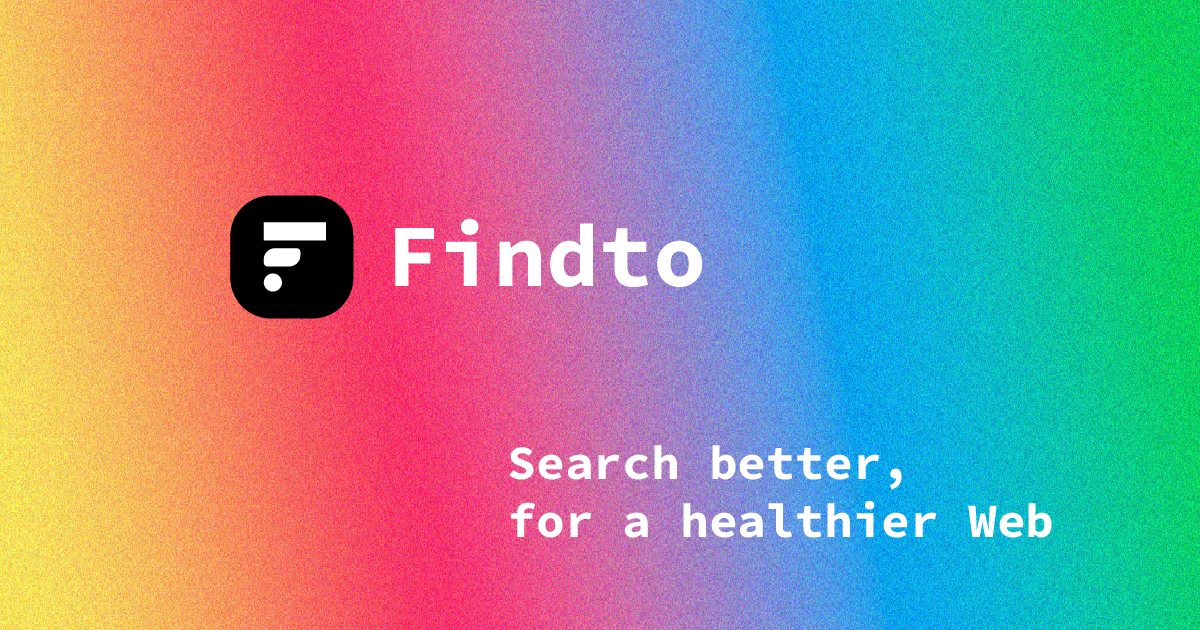
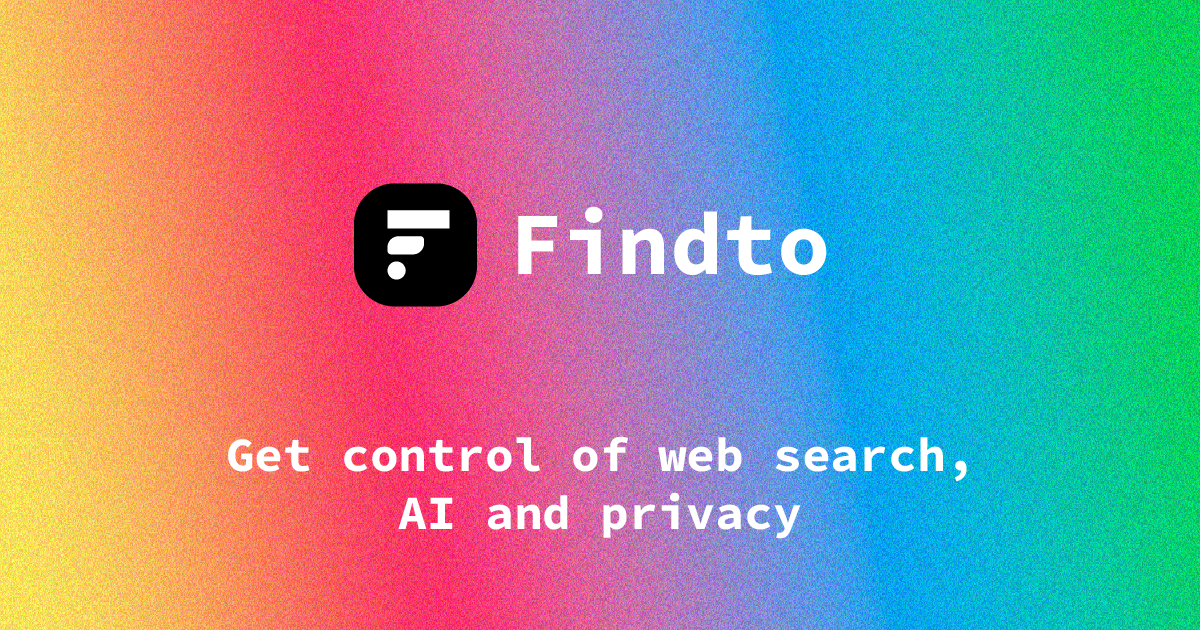
update share

Changed region(s): [[0.185, 0.6937, 0.8942, 0.8746], [0.185, 0.2714, 0.7092, 0.5127]]

diff --git a/README.md b/README.md
@@ -5,7 +5,7 @@
 </div>
 
 <h1 align="center">
-Findto
+<a href="https://findto.app/" target="_blank">Findto</a>
 </h1>
 
 <p align="center">
@@ -18,24 +18,25 @@ Findto
 
 <p align="center">
 Decentralized search assistant<br>
-<a href="https://findto.app/" target="_blank">findto.app</a>
 </p>
 
 ## 🌎 Decentralized search assistant
 
-Findto is a free and open source assistant for decentralized web search powered by diverse sources, AI and privacy control.
+Findto is a free and open source assistant for decentralized web search.
 
-Findto mission is to make searches truly free and more productive, putting people in control of algorithms and AIs — not the other way around. Findto proposes a enhanced web search experience: you control sources, view the privacy score, discover trending contents and chose better results.
+Findto's mission is to make searches truly free and more productive, putting people in control of algorithms and AIs — not the other way around.
 
-The centralized web, where our searches are monopolized, it's over. Findto encourage everyone to discover a more diverse, healthier, private and democratic web. Where your choices matter.
+Findto proposes an enhanced web search experience: you control diverse sources, view the privacy score of them, discover trending contents, and choose better results.
+
+The centralized web, where our searches are monopolized, is over. Findto encourages everyone to discover a more diverse, healthier, secure, and democratic web. Where your choices matter.
 
 ## 🌈 Top features
 
 - **Decentralized web search** — Quickly search, the same term, on multiple categories and sources
 
-- **Privacy ranking** — See the privacy score of each search source, or how much your data are compromised
+- **Privacy ranking** — See the privacy score of selected source, or how much your data is protected
 
-- **Trends** — Explore trending topics, media contents, products, events and places nearby you
+- **Trends** — Explore trending topics, contents, products, events and places nearby you
 
 - **Autocomplete** — Get instant suggestions to help autocomplete terms as you type
 
@@ -43,9 +44,9 @@ The centralized web, where our searches are monopolized, it's over. Findto encou
 
 - **Internationalization** — Chose your country for local sources or use global search
 
-- **Voice search** — Use your voice to search anywhere
+- **Voice search** — Use voice to search anywhere
 
-- **Visual search** — Use an image to search on supported sources \* In development
+- **Visual search** — Use images to search on supported sources \* In development
 
 ## 🔍 Sources
 
